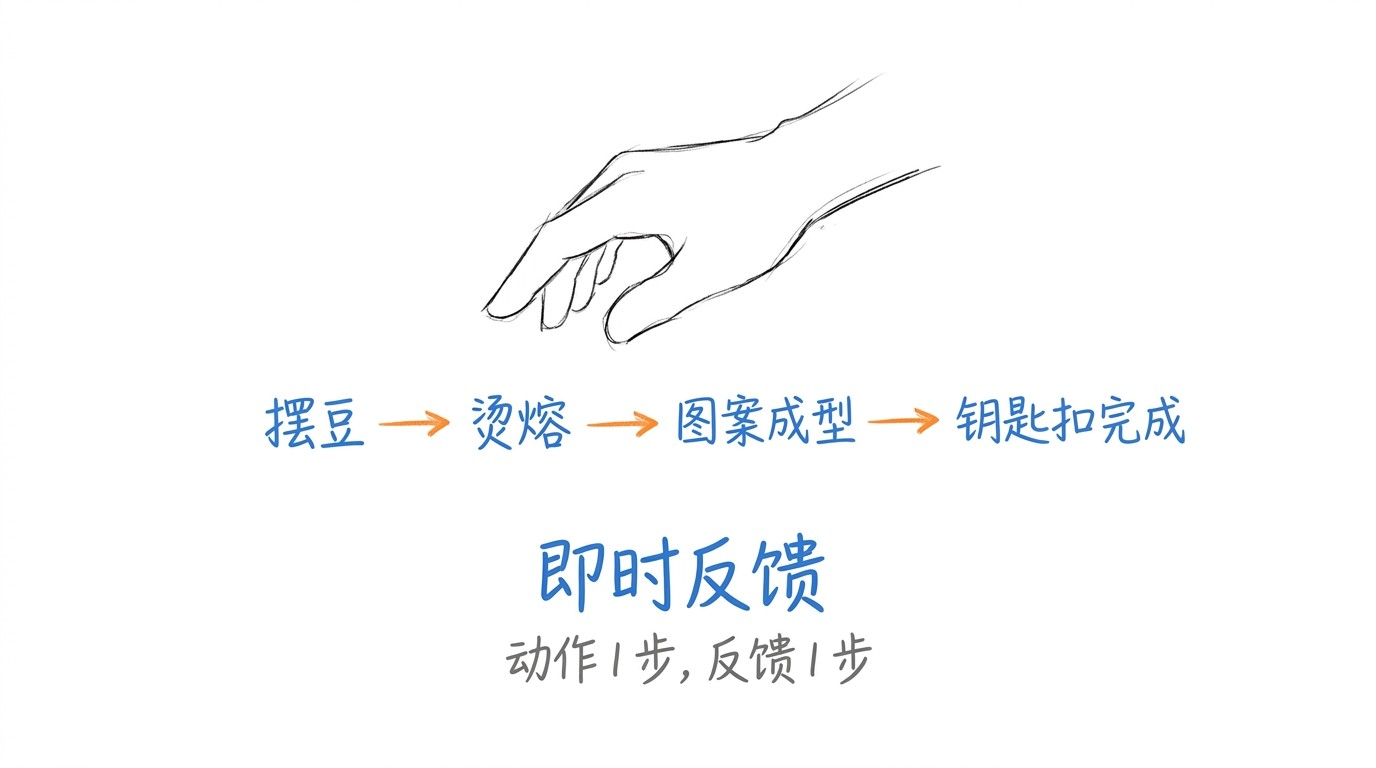
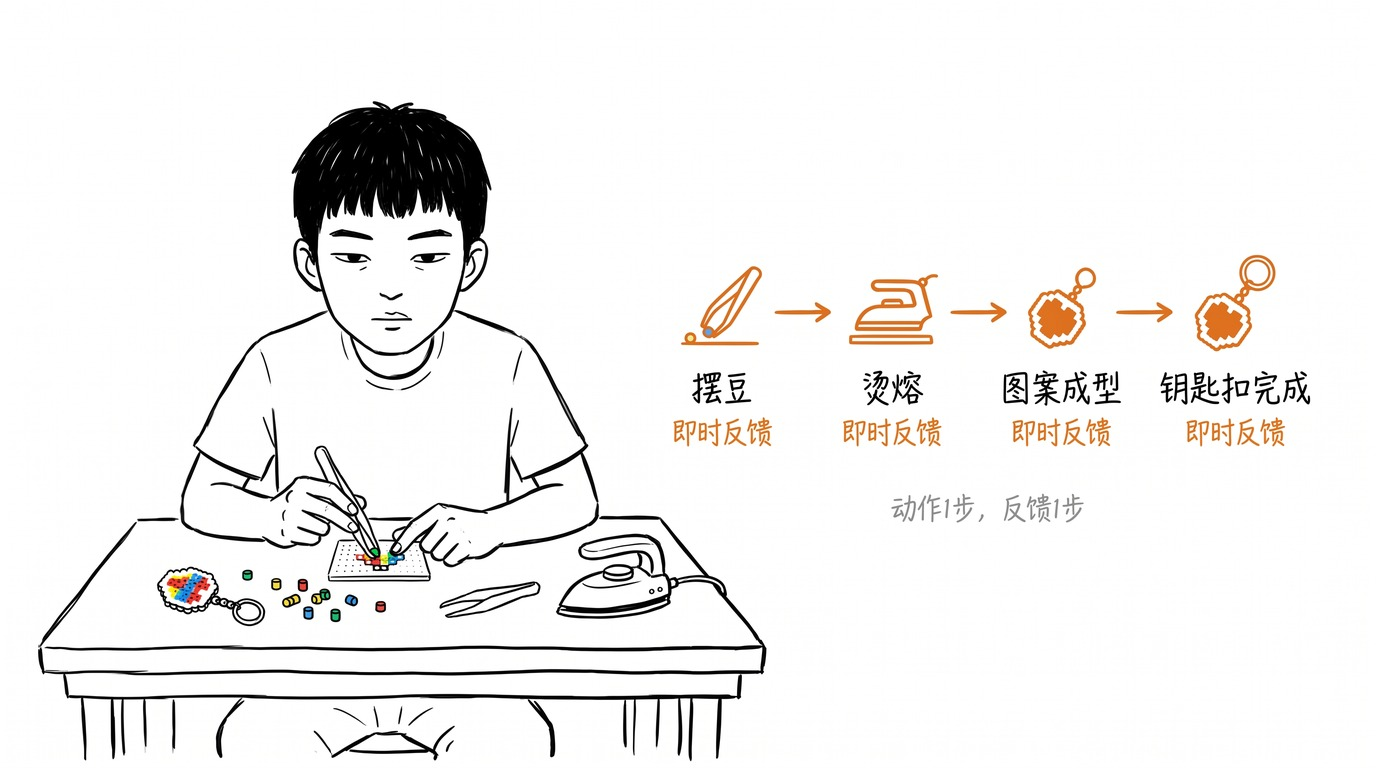
v2.8.18 公众号 027/03 + 028/03 加 IP 锚点 + 沉淀'防 IP 失联' 硬规则
**触发**: 用户(9/10)反馈 024-028 5 篇连发 0 IP, IP 形象失联 13 天, '后续不希望下次发生相同的问题'

**问题诊断**:
- v1.8 决策表 (v2.6 沉淀) 严格执行结果: 状态型 → 去 IP, 但没区分封面/收尾/内容图
- 9 月双联/三联集体观察/工具反思, 全图解型, 0 IP 配合 v1.8
- 个人 IP 公众号 13 天不见 IP = 跟'匿名作者' 没区别, 真实风险

**改图**:
- 027/03 hand-flow 改成: 小凡桌前摆拼豆 (死板冷静, 1 手拿镊子 1 手摆豆) + 散落拼豆+镊子+熨斗+半成品+成品钥匙扣 + 右侧 4 步流程保留
- 028/03 ai-tax-flow 改成: 小凡低头看手机 (屏幕上 iCloud 订阅 ¥28/月 自动续费) + 右侧缩略流程图保留
- banner (00) / punchline (04) 保留大字钩子/收尾, 留给文字
- 5 张总数不变, 027/028 现在 1/5 IP + 4 张图解型

**操作**:
- PIL JPEG 化 1376x768, 139-150KB
- 改 2 篇 content.md front matter (expressions 0/5→1/5 + poses 0/5→1/5) + image 描述
- 微信 API 不支持更新草稿, 删旧 + 新建 (草稿 ID 变):
  - 027 旧 4Qs6oAKtTbuKncYKGGbmXBA8UScAx5O-ALsqvmwCeuULWbfvgjZbUnHp02ykrSe3 → 新 4Qs6oAKtTbuKncYKGGbmXIRPTxPngG9TFwEP4vCfIA0bUdONlyuXlqwrk7TD7C8r
  - 028 旧 4Qs6oAKtTbuKncYKGGbmXPuUyMe8_IcfJwckj3r_hmQzUkbSYnafGMyMEf8qbAXW → 新 4Qs6oAKtTbuKncYKGGbmXJKFrZxQiQoraN45mL-a_oJPCRaHz8mBpOjK5Dc_caSB

**新硬规则** (style-guide §3.6 沉淀, 防 IP 失联):
- **5 张图里至少 1 张含 IP 形象** (动作型, 02/03 内容图位置)
- **失联红线: 连续 3 篇 0 IP = IP 失联, 必须重画加 IP**
- v1.8 决策表依然有效, 但加这条下限: 状态型/集体观察/工具反思, 02/03 插 1 张 IP 锚点
- 自检: front matter expressions 字段必须 ≥1/5 用 → 不达标阻断

**微信 API 工具知识** (新沉淀):
- draft/delete API: cgi-bin/draft/delete?access_token=... body {media_id: ...} errcode=0 成功
- 微信 API 不支持更新草稿, 改图必须删旧 + 新建

**文档更新**:
- brand/style-guide.md §3.6 新增'IP 形象出现频率' 段 (含失联红线)
- doc/SERIES-DRAFT-IDS.md 草稿 ID 全部更新 (旧 ID 标记失效)
- doc/SERIES-STATE.md 027/028 行的 IP 状态从 0/5 改 1/5
[…]

diff --git a/doc/SERIES-STATE.md b/doc/SERIES-STATE.md
@@ -52,8 +52,8 @@
 | 023 | 8 月没开倍速, 是我自己按的 | 生活观察-实验(8/23 热搜 #我怀疑八月开倍速了# 4.2 亿阅读, 8/26 处暑"原速日" 6 件事) | 1/5 用 (03 死板冷静) | 0/5 用 | 月历 / 倍速按钮 / 经典闹钟 / 咖啡+笔记本+手机扣着 / 1.0x 按键 | ✅ 草稿已创建(v2.8.8 待手动群发) |
 | 024 | 杭州这 3 次台风, 我屯了 3 次泡面 | 生活观察-实验(8/28 沙德尔 14 级强台风 + 红色预警 + Ⅰ 级响应, 主城区 7 级, 反共识: 渲染 vs 体感) | 0/5 用 | 0/5 用 | 超市空货架 / 4 预警徽章 / 泡面袋 / 街道+伞+水果摊 / 3 袋泡面对比 | ✅ 草稿已创建(v2.8.10 待手动群发) |
 | 025 | 我每天 3:15 醒来, 看 38 分钟天花板, 又睡了 | 生活观察-实验(借 8/30 知乎热榜"成年人的崩溃往往在半夜" 1.2 亿阅读 + 朋友圈第 3 条刷屏, 反向"崩溃不在半夜, 在 3:15"; 8/23-8/31 共 9 天, 0 天例外, 3:15 醒, 38 分钟天花板, 又睡了; 9 天 5.7 小时, 4 件事 0 答案; 落"草稿 > 作品"; v2.8.12.3 彻底换选题, 扔掉 v2.8.12/12.1/12.2 全部"开学焦虑"方向, 不再"列清单+送孩子", 改成"看到一句话 → 扩展") | 0/5 用 (状态型 → 全去 IP) | 0/5 用 | 9 个日格 8/23-8/31 每个 3:15 红圈 / 手机收藏夹 4 件事 (蜘蛛网 5cm + 水渍 5 个月 + 蛾子 1 个月 + 缝 1cm) / 卧室仰视+蜘蛛网 5 厘米 / 卧室仰视+缝 1 厘米 (旁边 1 块水渍) / 笔记本"草稿"+闹钟 3:15 | ✅ 草稿已创建(v2.8.12.3 换选题, 草稿 ID `4Qs6oAKtTbuKncYKGGbmXCFKQBuWlPscbc3xNJrgHPX_l_5LHD796udOLHlpNWKv`, 待手动群发) |
-| **027** | **手搓的人, 都不是为了做出来** | 集体观察-反思 行为转向(v2.8.17 9 月双联下篇, 跟 026 自渡配对。蹭 9/10 抖音 #手搓万物 87.6 亿次 + 小红书百万笔记 00 后占近 4 成. 反共识切口"手搓不是为了做出来, 是为了在做的过程里找回自己". 4 个门类(拼豆/钩织/贴纸/粘土)+ 刷手机 3 小时 vs 手搓 1 小时 对比 + 手+4 步流程(摆豆→烫熔→完整图案) 即时反馈. 落"**过程 > 结论**" + 收尾"手搓=草稿的另一种说法". 5 张图里 **0 张 IP** (集体观察行为转向 状态型, 全图解型)) | 0/5 用 (集体观察 → 全去 IP) | 0/5 用 | 9 月方格日历 30 天 + 大字"手搓"/4 张手搓门类卡片 (拼豆橙豆 / 钩织蓝钩针 / 贴纸橙小屋 / 粘土蓝小杯, 区别 026 4 征兆卡片)/左灰进度条"刷手机 3 小时" 红 brush 划掉 + 右橙进度条"手搓 1 小时" (区别 026 进度条"35 岁前财务自由" vs "我自己定义")/1 个手 + 4 步流程 (摆豆→烫熔→完整图案, 每步橙字即时反馈)/大字"手搓=草稿" | ✅ 草稿已创建(v2.8.17 9/10 同步, 草稿 ID `4Qs6oAKtTbuKncYKGGbmXBA8UScAx5O-ALsqvmwCeuULWbfvgjZbUnHp02ykrSe3`, 待手动群发) |
-| **028** | **iPhone 18 涨了 1000, 你买的不是手机, 是 AI 税** | 工具反思-扩展 AI 税(v2.8.17 9 月三联工具篇, 蹭 9/10 凌晨 1 点苹果秋季发布会 + 9/9 华为 Mate XT 2 + 小米 18 Fold 集体涨价热搜. 跟 020/021/022 AI 战略接续但角度不同: 020 大厂资本/021 OpenAI 降价/022 匿名模型/**028 个人钱包**. 切口"AI 税" 反共识"涨价不为硬件为 AI 算力". 4 征兆结构改用**价格表+拆解图+流程图** 视觉区别 026/027 (避免 3 篇都用 4 张卡片). 落"**草稿 > 作品**" + 收尾"AI 税=草稿的另一种说法". 5 张图里 **0 张 IP** (工具反思状态型, 全图解型)) | 0/5 用 (工具反思 → 全去 IP) | 0/5 用 | 大字"AI 税" 蓝字"= 你为草稿付的钱"/iPhone 18 vs 17 价格对比表 (4 行 256GB 涨 1000 / 512GB 涨 2000 / 1TB 涨 3500 / 2TB 涨 5000, 红 brush 圈"涨 1000-5000")/iPhone 18 拆解图 (左"硬件" 蓝字 0 涨 + 右"AI 算力" A20 Pro NPU 涨 40%, 中间大箭头, **02 重画去苹果 logo 触发 v2.6.1 配图硬规则**)/AI 税流程图 (你→苹果→AI 公司→GPU 算力→数据中心)/大字"AI 税=草稿" 橙字"你为草稿付, 不是为作品" | ✅ 草稿已创建(v2.8.17 9/10 同步, 草稿 ID `4Qs6oAKtTbuKncYKGGbmXPuUyMe8_IcfJwckj3r_hmQzUkbSYnafGMyMEf8qbAXW`, 待手动群发) |
[1 lines of base64/hex data omitted]
+| **028** | **iPhone 18 涨了 1000, 你买的不是手机, 是 AI 税** | 工具反思-扩展 AI 税(v2.8.17 9 月三联工具篇, 蹭 9/10 凌晨 1 点苹果秋季发布会 + 9/9 华为 Mate XT 2 + 小米 18 Fold 集体涨价热搜. 跟 020/021/022 AI 战略接续但角度不同: 020 大厂资本/021 OpenAI 降价/022 匿名模型/**028 个人钱包**. 切口"AI 税" 反共识"涨价不为硬件为 AI 算力". 4 征兆结构改用**价格表+拆解图+流程图** 视觉区别 026/027 (避免 3 篇都用 4 张卡片). 落"**草稿 > 作品**" + 收尾"AI 税=草稿的另一种说法". **v2.8.18 03 重画加 IP** (小凡低头看手机 屏幕上 iCloud 订阅扣款通知, 强化"你为 AI 付钱" 的个人代入, 符合 style-guide §3.6 新硬规则 "5 张至少 1 张 IP 锚点") | **1/5 用 (03 死板冷静)** | 0/5 用 | 大字"AI 税" 蓝字"= 你为草稿付的钱"/iPhone 18 vs 17 价格对比表 (4 行 256GB 涨 1000 / 512GB 涨 2000 / 1TB 涨 3500 / 2TB 涨 5000, 红 brush 圈"涨 1000-5000")/iPhone 18 拆解图 (左"硬件" 蓝字 0 涨 + 右"AI 算力" A20 Pro NPU 涨 40%, 中间大箭头, **02 重画去苹果 logo 触发 v2.6.1 配图硬规则**)/**小凡低头看手机 (屏幕 iCloud 订阅 ¥28/月 自动续费) + 右侧缩略流程图 (v2.8.18 加 IP)**/大字"AI 税=草稿" 橙字"你为草稿付, 不是为作品" | ✅ 草稿已创建(v2.8.18 9/10 同步, 草稿 ID `4Qs6oAKtTbuKncYKGGbmXJKFrZxQiQoraN45mL-a_oJPCRaHz8mBpOjK5Dc_caSB`, 待手动群发; 旧 ID 9/10 v2.8.17 失效) |
 
 > **000 是开篇**,负责品牌定位 + 联动 001,所以表情/装扮/姿态都不计入轮换池。
 > **003 跟 001/002 形成"工具三部曲"**(节奏 / 专注 / 控制权),三个独立切口。
@@ -144,8 +144,8 @@
 - 超市空货架(泡面/水/面包)/4 预警徽章(14 级+红色预警+Ⅰ 级+五停)/泡面袋/街道+伞+水果摊/3 袋泡面对比(系列 024)
 - 9 个日格 8/23-8/31 (每个 3:15 红圈) + 蓝字"5.7 小时"/手机收藏夹 4 件事 (蜘蛛网 5cm + 水渍 5 个月 + 蛾子 1 个月 + 缝 1cm 全部红 X) + 蓝字"我醒了 9 次" + 灰字"0 答案"/卧室仰视 + 闹钟 3:15 (红圈) + 蜘蛛网 5 厘米 (左下角)/卧室仰视 + 闹钟 3:15 (红圈) + 缝 1 厘米 (旁边水渍 5 个月)/笔记本"草稿" + 闹钟 3:15 + 蓝字"草稿 > 作品" (系列 025, v2.8.12.3 换选题"3:15 + 天花板 + 草稿")
 - 9 月方格日历 30 天 + 大字"自渡" + 4 张征兆卡片 (跳槽/维权/朋友/政策) + 2 个进度条 (35 岁前财务自由 红 brush 划掉 vs 我自己定义) + 4 box 情绪代谢流程图 (运动/写作/深度阅读/结构化反思) + 大字"自渡=承认" (系列 026, v2.8.17 集体观察-反思 状态型 0 IP)
-- 9 月方格日历 30 天 + 大字"手搓" + 4 张手搓门类卡片 (拼豆橙豆/钩织蓝钩针/贴纸橙小屋/粘土蓝小杯, **区别 026 4 征兆卡片**) + 左灰进度条"刷手机 3 小时" 红 brush 划掉 + 右橙进度条"手搓 1 小时" (**区别 026 进度条**) + 1 个手 + 4 步流程 (摆豆→烫熔→完整图案) 即时反馈 + 大字"手搓=草稿" (系列 027, v2.8.17 集体观察-反思 行为转向 0 IP)
-- 大字"AI 税" 蓝字"= 你为草稿付的钱" + iPhone 18 vs 17 价格对比表 (4 行 256GB 涨 1000 / 512GB 涨 2000 / 1TB 涨 3500 / 2TB 涨 5000, **区别 026/027 卡片结构**) + iPhone 18 拆解图 (左"硬件" 0 涨 + 右"AI 算力" A20 Pro NPU 涨 40%, **02 重画去苹果 logo**) + AI 税流程图 (你→苹果→AI 公司→GPU 算力→数据中心) + 大字"AI 税=草稿" (系列 028, v2.8.17 工具反思-扩展 AI 税 0 IP)
+- 9 月方格日历 30 天 + 大字"手搓" + 4 张手搓门类卡片 (拼豆橙豆/钩织蓝钩针/贴纸橙小屋/粘土蓝小杯, **区别 026 4 征兆卡片**) + 左灰进度条"刷手机 3 小时" 红 brush 划掉 + 右橙进度条"手搓 1 小时" (**区别 026 进度条**) + **小凡桌前摆拼豆 (1 手拿镊子 1 手摆豆) + 散落拼豆+镊子+熨斗+半成品+成品钥匙扣 + 右侧 4 步流程 (v2.8.18 加 IP, 替代原"1 个手")** + 大字"手搓=草稿" (系列 027, v2.8.17 集体观察-反思 行为转向, v2.8.18 加 IP)
+- 大字"AI 税" 蓝字"= 你为草稿付的钱" + iPhone 18 vs 17 价格对比表 (4 行 256GB 涨 1000 / 512GB 涨 2000 / 1TB 涨 3500 / 2TB 涨 5000, **区别 026/027 卡片结构**) + iPhone 18 拆解图 (左"硬件" 0 涨 + 右"AI 算力" A20 Pro NPU 涨 40%, **02 重画去苹果 logo**) + **小凡低头看手机 (屏幕 iCloud 订阅 ¥28/月 自动续费) + 右侧缩略流程图 (v2.8.18 加 IP, 替代原"流程图主图")** + 大字"AI 税=草稿" (系列 028, v2.8.17 工具反思-扩展 AI 税, v2.8.18 加 IP)
 
 **未用**(防反复刻):
 
@@ -187,8 +187,8 @@
 - **生活观察-实验(024 杭州这 3 次台风, 我屯了 3 次泡面)** — v2.8.10, 8/28 沙德尔 14 级强台风 + 红色预警 + Ⅰ 级响应 + 临安五停, 但主城区 7 级 + 蓝色预警。 反共识切口: 渲染的"严重" vs 体感的"7 级"。 跟 019/023 同角度池, 5 张图里 1 张 IP (02 买泡面)
 - **生活观察-实验(025 我每天 3:15 醒来, 看 38 分钟天花板, 又睡了)** — v2.8.12.3 彻底换选题, 扔掉 v2.8.12/12.1/12.2 全部"开学焦虑"方向 (列清单+送孩子+家长焦虑, 用户看腻了); 借 8/30 知乎热榜"成年人的崩溃往往在半夜" 1.2 亿阅读 + 朋友圈第 3 条刷屏, 反向"崩溃不在半夜, 在 3:15"; 8/23-8/31 共 9 天, 0 天例外, 3:15 醒, 38 分钟天花板, 又睡了; 9 天 5.7 小时, 4 件事 (蜘蛛网 5cm + 水渍 5 个月 + 蛾子 1 个月 + 缝 1cm) 0 答案; 落"**草稿 > 作品**": 3 点醒来不是失眠, 是"还在写"的过程; 5 张图里 **0 张 IP** (状态型配图, 卧室仰视 + 闹钟 3:15)
 - **集体观察-反思(026 自渡这个词, 不是鸡汤, 是承认)** — v2.8.17 蹭 9 月热搜"自渡" 9 月年轻人搜索量最高的词. 跟 023/024/025 生活观察-实验 区别开, 走"集体观察-反思" 角度, 不是个人小事, 是 9 月集体转向 + 反共识"自渡≠自我提升". 4 个征兆: 跳槽换环境难/维权成本高/朋友自保不易/政策节奏差. 落"**过程 > 结论**": 承认比提升难, 自渡=减东西不是加东西, 进度条拆掉 (35 岁前财务自由 vs 我自己定义), 情绪代谢 (4 box 流程图: 运动/写作/深度阅读/结构化反思). 5 张图里 **0 张 IP** (集体观察状态型, 全图解型)
-- **集体观察-反思 行为转向(027 手搓的人, 都不是为了做出来)** — v2.8.17 第 2 段, 9 月双联下篇 (跟 026 自渡配对: 026 心理转向, 027 行为转向, 都收尾在"草稿"). 蹭 9/10 抖音 #手搓万物 87.6 亿次 + 小红书百万笔记 00 后占近 4 成. 反共识切口"手搓不是为了做出来, 是为了在做的过程里找回自己". 4 个门类(拼豆/钩织/贴纸/粘土)+ 刷手机 3 小时 vs 手搓 1 小时 对比 (区别 026 进度条) + 手+4 步流程 即时反馈. 落"**过程 > 结论**". 5 张图里 **0 张 IP** (集体观察行为转向, 全图解型)
-- **工具反思-扩展 AI 税(028 iPhone 18 涨了 1000, 你买的不是手机, 是 AI 税)** — v2.8.17 第 2 段, 9 月三联工具篇 (蹭 9/10 凌晨 1 点苹果秋季发布会 + 9/9 华为 Mate XT 2 + 小米 18 Fold 集体涨价热搜). 跟 020/021/022 AI 战略接续但角度不同: 020 大厂资本/021 OpenAI 降价/022 匿名模型/**028 个人钱包**. 切口"AI 税" 反共识"涨价不为硬件为 AI 算力". 4 征兆结构改用**价格表+拆解图+流程图** 视觉区别 026/027 (避免 3 篇都用 4 张卡片). 落"**草稿 > 作品**". 5 张图里 **0 张 IP** (工具反思状态型, 全图解型, **02 iphone-explode 触发 v2.6.1 配图硬规则, 重画去苹果 logo**)
+- **集体观察-反思 行为转向(027 手搓的人, 都不是为了做出来)** — v2.8.17 第 2 段, 9 月双联下篇 (跟 026 自渡配对: 026 心理转向, 027 行为转向, 都收尾在"草稿"). 蹭 9/10 抖音 #手搓万物 87.6 亿次 + 小红书百万笔记 00 后占近 4 成. 反共识切口"手搓不是为了做出来, 是为了在做的过程里找回自己". 4 个门类(拼豆/钩织/贴纸/粘土)+ 刷手机 3 小时 vs 手搓 1 小时 对比 (区别 026 进度条) + 手+4 步流程 即时反馈. 落"**过程 > 结论**". **v2.8.18 03 重画加 IP** (小凡桌前摆拼豆 死板冷静, 1 手拿镊子 1 手摆豆, 桌上有散落拼豆+镊子+熨斗+半成品+成品钥匙扣, 右侧 4 步流程保留), 5 张图里 **1 张 IP** + 4 张图解型 (符合 style-guide §3.6 新硬规则)
+- **工具反思-扩展 AI 税(028 iPhone 18 涨了 1000, 你买的不是手机, 是 AI 税)** — v2.8.17 第 2 段, 9 月三联工具篇 (蹭 9/10 凌晨 1 点苹果秋季发布会 + 9/9 华为 Mate XT 2 + 小米 18 Fold 集体涨价热搜). 跟 020/021/022 AI 战略接续但角度不同: 020 大厂资本/021 OpenAI 降价/022 匿名模型/**028 个人钱包**. 切口"AI 税" 反共识"涨价不为硬件为 AI 算力". 4 征兆结构改用**价格表+拆解图+流程图** 视觉区别 026/027 (避免 3 篇都用 4 张卡片). 落"**草稿 > 作品**". **v2.8.18 03 重画加 IP** (小凡低头看手机 死板冷静, 屏幕 iCloud 订阅 ¥28/月 自动续费, 右侧缩略流程图保留), 5 张图里 **1 张 IP** + 4 张图解型; 02 iphone-explode 触发 v2.6.1 配图硬规则, 重画去苹果 logo
 
 ### 待开发的备选角度(避免重复, 备未来)
 

diff --git a/PROJECT-HISTORY.md b/PROJECT-HISTORY.md
@@ -1175,3 +1175,68 @@ header 'Accept-Language: zh-CN,zh;q=0.9,en;q=0.8'
 - 020/021/022 公众号 8/25 已发版阅读/数据待统计
 - 公众号抓数据 (v2.8.17 待处理, 微信扫码登录同样风险)
 
+---
+
+## v2.8.18 阶段 (2026-09-10): 公众号 027/028 加 IP 锚点 + 沉淀"防 IP 失联" 硬规则
+
+**触发**: 用户(9/10)反馈"最近公众号配图的策略调整了吗, 还是最近的文章都没必要出现我们的 IP 形象相关的配图呢, 如果有必要可以重新处理文章和配图" + "后续不希望下次发生相同的问题"
+
+**问题诊断**:
+- 024-028 5 篇连发 0 IP, IP 形象失联 13 天 (8/28-9/10)
+- v1.8 决策表 (v2.6 沉淀) 严格执行结果: 状态型画面 → 去 IP, 但没区分"封面/收尾" 和"内容图" 位置
+- 9 月双联/三联集体观察/工具反思角度, 全图解型, 0 IP 配合 v1.8 决策表
+- 但个人 IP 公众号 13 天不见 IP = 跟"匿名作者" 没区别, 这是真实风险
+
+**决策**: 按方案 C 处理 — 027/028 各加 1 张 IP 配图 (动作型, 5 张总数不变, 不破坏 9 月双联/三联设计):
+- **027 03 hand-flow 改成**: 小凡桌前摆拼豆 (死板冷静, 1 手拿镊子 1 手摆豆) + 桌上有散落拼豆+镊子+熨斗+半成品+成品钥匙扣 + 右侧 4 步流程保留
+- **028 03 ai-tax-flow 改成**: 小凡低头看手机 (死板冷静, 屏幕 iCloud 订阅 ¥28/月 自动续费) + 右侧缩略流程图保留
+- banner (00) / punchline (04) 保留大字钩子/收尾, 留给文字 — 不在封面/收尾改 IP
+
+**操作步骤**:
+1. 重画 2 张 IP 配图 (用 `xiaofan-ink/assets/ip-reference/standard.png` 作 input_file_paths, 跟 standard 描述段对齐)
+2. PIL JPEG 化 1376x768, 139-150KB
+3. 改 2 篇 content.md (image 描述 + front matter `expressions: 0/5 → 1/5 用` + `poses: 0/5 → 1/5 用`)
+4. 微信 API 不支持更新草稿, **删旧草稿 + 新建** (草稿 ID 变):
[1 lines of base64/hex data omitted]
+   - 028 旧: `4Qs6oAKtTbuKncYKGGbmXPuUyMe8_IcfJwckj3r_hmQzUkbSYnafGMyMEf8qbAXW` → 新: `4Qs6oAKtTbuKncYKGGbmXJKFrZxQiQoraN45mL-a_oJPCRaHz8mBpOjK5Dc_caSB`
+5. 沉淀硬规则到 style-guide §3.6
+6. 更新所有跟踪表
+
+**新草稿 ID** (v2.8.18):
[1 lines of base64/hex data omitted]
+- 028: `4Qs6oAKtTbuKncYKGGbmXJKFrZxQiQoraN45mL-a_oJPCRaHz8mBpOjK5Dc_caSB` (2026-09-10 10:36)
+
+**新观察沉淀 (v2.8.18 核心: 防 IP 失联硬规则)**:
+1. **5 张图里至少 1 张含 IP 形象** (v2.8.18 新增, 硬规则): 动作型, 跟主题相关, 02/03 内容图位置; banner (00) / punchline (04) 留给文字
+2. **失联红线 (v2.8.18 新增)**: 连续 3 篇 0 IP = IP 失联, 必须重画加 IP
+3. **v1.8 决策表扩展 (v2.8.18)**: 状态型/集体观察/工具反思, 02/03 位置插 1 张 IP 锚点; 不在封面/收尾改 IP
+4. **微信 API 不支持更新草稿 (v2.8.18 验证)**: 改图必须删旧 + 新建, 草稿 ID 变, SERIES-DRAFT-IDS 同步更新
+5. **删旧草稿 API (v2.8.18 新增工具知识)**: `cgi-bin/draft/delete?access_token=...`, body `{"media_id": "..."}`, errcode=0 表示成功
+
+**沉淀到 style-guide §3.6 新增段**:
+- "IP 形象出现频率 (v2.8.18 新增, 硬规则, **防 IP 失联**)"
+- 5 张图里至少 1 张含 IP 形象 (动作型, 跟主题相关)
+- 位置: 02 或 03 位置 (内容图), 不在 00 banner / 04 punchline
+- 例外: 5 张全 IP 也行, 但 ≥1 张是底线
+- 失联红线: 连续 3 篇 0 IP = IP 失联, 必须重画加 IP
+- 起源: v2.8.17 024-028 5 篇连发 0 IP, IP 失联 13 天, 用户(9/10)反馈修正
+- 自检: front matter `expressions` 字段必须 ≥1/5 用 → 不达标阻断
+
+**文档更新**:
+- `doc/essays/images/027-handmade/03-hand-flow.png` 重画 (加 IP 形象, 小凡桌前摆拼豆)
+- `doc/essays/images/028-ai-tax/03-ai-tax-flow.png` 重画 (加 IP 形象, 小凡看订阅扣款)
+- `doc/essays/027-handmade.md` front matter `expressions: 0/5 → 1/5 用` + `poses: 0/5 → 1/5 用` + image 描述更新
+- `doc/essays/028-ai-tax.md` front matter `expressions: 0/5 → 1/5 用` + `poses: 0/5 → 1/5 用` + image 描述更新
+- `doc/SERIES-DRAFT-IDS.md` 草稿 ID 全部更新 (旧 ID 标记失效)
+- `doc/SERIES-STATE.md` 027/028 行的 IP 状态从 0/5 改 1/5
+- `brand/style-guide.md` §3.6 新增"IP 形象出现频率" 段 + 自检项
+- `PROJECT-HISTORY.md` 本节 (v2.8.18)
+
+**待办** (不催更):
+- 027/028 群发 (9/10 v2.8.18 同步, 用户决定 9 月双联/三联群发时机)
+- 025 群发 (v2.8.12.3 已脱离开学时效, 任意时间可发)
+- 024/023 群发 (8/26-8/28 同步, 用户决定)
+- 026 群发 (9/9 同步, 用户决定)
+- 020/021/022 公众号 8/25 已发版阅读/数据待统计
+- 公众号抓数据 (v2.8.17 待处理, 微信扫码登录同样风险)
+

diff --git a/doc/SERIES-DRAFT-IDS.md b/doc/SERIES-DRAFT-IDS.md
@@ -13,15 +13,16 @@
 
 | 编号 | 标题 | 草稿 ID | 同步时间 | 配图 |
 |---|---|---|---|---|
-| **027** | **手搓的人, 都不是为了做出来** | `4Qs6oAKtTbuKncYKGGbmXBA8UScAx5O-ALsqvmwCeuULWbfvgjZbUnHp02ykrSe3` | 2026-09-10 09:36 | 5 张 (v1.8 决策表: **0 IP** + 5 去 IP, 集体观察-反思 行为转向) |
-| **028** | **iPhone 18 涨了 1000, 你买的不是手机, 是 AI 税** | `4Qs6oAKtTbuKncYKGGbmXPuUyMe8_IcfJwckj3r_hmQzUkbSYnafGMyMEf8qbAXW` | 2026-09-10 09:47 | 5 张 (v1.8 决策表: **0 IP** + 5 去 IP, 工具反思-扩展 AI 税, 02 重画去苹果 logo) |
[1 lines of base64/hex data omitted]
+| **028** | **iPhone 18 涨了 1000, 你买的不是手机, 是 AI 税** | `4Qs6oAKtTbuKncYKGGbmXJKFrZxQiQoraN45mL-a_oJPCRaHz8mBpOjK5Dc_caSB` | 2026-09-10 10:36 (v2.8.18 03 重画加 IP, 旧 ID `4Qs6oAKtTbuKncYKGGbmXPuUyMe8_IcfJwckj3r_hmQzUkbSYnafGMyMEf8qbAXW` 失效) | 5 张 (v1.8 决策表: **1 IP** (03 小凡看订阅扣款) + 4 去 IP, 工具反思-扩展 AI 税, 02 重画去苹果 logo) |
 
-> 027/028 是 v2.8.17 第 2 段, 9 月双联/三联:
+> 027/028 是 v2.8.17 第 2 段 (后被 v2.8.18 修正, 03 加 IP), 9 月双联/三联:
 > - **026 自渡 (9/9 同步)** — 9 月热搜"自渡" 9 月年轻人搜索量最高的词; 4 个征兆 (跳槽/维权/朋友/政策); 落"过程>结论" + 收尾"自渡=草稿的另一种说法"
-> - **027 手搓 (9/10 同步)** — 9 月年轻人最上头新爱好 #手搓万物 87.6 亿次; 4 门类 (拼豆/钩织/贴纸/粘土); 落"过程>结论" + 收尾"手搓=草稿的另一种说法"
-> - **028 AI 税 (9/10 同步)** — iPhone 18 涨 1000 不是为硬件是为 AI 算力; 落"草稿>作品" + 收尾"AI 税=草稿的另一种说法"
+> - **027 手搓 (9/10 同步, v2.8.18 03 加 IP)** — 9 月年轻人最上头新爱好 #手搓万物 87.6 亿次; 4 门类 (拼豆/钩织/贴纸/粘土); 落"过程>结论" + 收尾"手搓=草稿的另一种说法"; 03 hand-flow 改成"小凡桌前摆拼豆 + 4 步流程" (动作型, 防止 IP 失联)
+> - **028 AI 税 (9/10 同步, v2.8.18 03 加 IP)** — iPhone 18 涨 1000 不是为硬件是为 AI 算力; 落"草稿>作品" + 收尾"AI 税=草稿的另一种说法"; 03 ai-tax-flow 改成"小凡低头看手机 (订阅扣款通知) + 流程图缩略" (动作型, 防止 IP 失联)
 > - **3 篇都收尾在"草稿"**: 强化调性, 9 月观察 3 联 (心理+行为+工具)
 > - 028 02 iphone-explode 图含苹果 logo 触发 v2.6.1 配图硬规则, 重画去 logo; **新观察**: 渲染器画"iPhone outline" 会自动加苹果 logo, prompt 必加 "NO apple logo, NO brand name"
+> - **v2.8.18 修正**: 用户(9/10)发现 024-028 5 篇连发 0 IP, IP 形象失联 13 天; 按 style-guide §3.6 新硬规则 "5 张至少 1 张 IP 锚点" 加 IP; 删旧草稿 + 新建, 草稿 ID 变
 
 ---
 

diff --git a/AGENTS.md b/AGENTS.md
@@ -152,13 +152,14 @@
 
 ---
 
-## 当前状态 (v2.8.17 第 2 段, 9/10)
+## 当前状态 (v2.8.18, 9/10)
 
-- **公众号**: 29 篇 (000-028), 草稿箱 2 篇 (027 手搓 + 028 AI 税), 已发 12 篇
+- **公众号**: 29 篇 (000-028), 草稿箱 2 篇 (027 手搓 v2.8.18 + 028 AI 税 v2.8.18), 已发 12 篇
   - 8/25 写完 AI 战略三联 (020 大厂门票 + 021 OpenAI 再降价 + 022 匿名模型) 已群发
   - 9/9 蹭 9 月热搜"自渡" 写 026, 9/10 蹭抖音#手搓万物# 写 027, 9/10 蹭苹果发布会 写 028
   - 015 (1007 阅读, AI 跑赢) + 019 (717 阅读, 生活观察能跑) + 017 (69 阅读, 价格/经济跑不动)
   - **9 月双联/三联** (026 自渡 + 027 手搓 + 028 AI 税) 都收尾"= 草稿的另一种说法", 角度不重复 (心理+行为+工具)
+  - **v2.8.18 修正**: 027/03 + 028/03 加 IP 锚点 (小凡摆拼豆 + 小凡看订阅扣款), 防 IP 失联; 删旧草稿 + 新建, 草稿 ID 变
 - **抖音**: 20 篇 (001-020), 12 篇已发布 (8/27-9/4), 005/006 9/7 决定不再发, 019/020 待发布
   - 9/7 数据复盘: 跑赢 Top 3 是 016 状态型 747 / 017 共鸣金句 294 / 013 自嘲 250
   - 数字链**挑题材**才能跑赢: 009 截图 47/0 271 / 007 外卖 12/0 159
@@ -168,6 +169,7 @@
 - **公众号蹭热点边界 (v2.8.17 沉淀)**: 蹭"集体意识转向" 关键词 (自渡/手搓), 不蹭具体事件 (郑钦文/倪妮/AI 战略续作/价格财经/娱乐八卦 都不适合)
 - **公众号 digest 字数限制 (v2.8.17 沉淀)**: 54 字符硬限制, 超出会被静默截断, 写时直接 punchline 优先, 写完用 python 验证字符数 ≤ 54
 - **v2.6.1 配图硬规则触发 (v2.8.17 验证)**: 028 02 iphone-explode 图含苹果 logo, 重画去 logo; **新观察**: 渲染器画"iPhone outline" 会自动加苹果 logo, prompt 必加 "NO apple logo, NO brand name, generic smartphone outline only"
+- **公众号 IP 形象出现频率硬规则 (v2.8.18 新增, 防 IP 失联)**: **5 张图里至少 1 张含 IP 形象** (动作型, 02/03 内容图位置); banner/punchline 留给文字; **失联红线: 连续 3 篇 0 IP = IP 失联, 必须重画加 IP**; 起源: 024-028 5 篇连发 0 IP, IP 失联 13 天, 用户(9/10)反馈修正; 自检: front matter `expressions` 字段必须 ≥1/5 用 → 不达标阻断
 - **公众号角度池扩展 (v2.8.17)**: 之前「生活观察-实验」 (023/024/025), 现在多了「集体观察-反思」 (026 自渡 + 027 手搓) + 「工具反思-扩展」 (028 AI 税); 后续创作按这 3 个角度池轮换
 - 待办: 公众号 023/024/025/026/027/028 群发时机 (6 篇草稿箱) + 抖音 019/020 发布时机 + 020/021/022 公众号 8/25 已发版阅读/数据待统计 + 公众号抓数据 (微信扫码登录同样风险, 复用 gstack 优化)
 - 不催更, 想写就写

diff --git a/brand/style-guide.md b/brand/style-guide.md
@@ -96,11 +96,20 @@
 - **不画具体 app 内容** (如打车 app 27元/外卖 app 红点), 屏幕简笔即可
 - 屏幕里显示什么走 markdown alt text + 正文文字提示读者, 不靠画面展示
 
+**IP 形象出现频率** (v2.8.18 新增, 硬规则, **防 IP 失联**):
+- **5 张图里至少 1 张含 IP 形象** (动作型, 跟主题相关)
+- 位置: 02 或 03 位置 (内容图), 不在 00 banner / 04 punchline (大字钩子/收尾留给文字)
+- 例外: 5 张全 IP 也行, 但 ≥1 张是底线
+- 失联红线: **连续 3 篇 0 IP = IP 失联, 必须重画加 IP**
+- 起源: v2.8.17 024-028 5 篇连发 0 IP, IP 失联 13 天, 用户(9/10)反馈修正
+- v1.8 决策表依然有效, 但加这条下限: 状态型/集体观察/工具反思, 02/03 位置插 1 张 IP 锚点
+
 **自检 (同步前必跑)**:
 - img 引用数 (`![]()` 数量) = front matter `images:` 列表数 → 不一致阻断
 - 每张配图 prompt 不含 `very hot` / `sweat` / `towel` / `electric fan` / `air conditioning` 这类"突出温度感" 关键词
 - 6-9 月的 IP 形象图 prompt 含 `short-sleeve t-shirt` 至少一次
 - 12-2 月的 IP 形象图 prompt 含 `winter coat` / `thick jacket` 至少一次
+- **5 张图里至少 1 张含 IP 形象** (front matter `expressions` 字段必须 ≥1/5 用) → 不达标阻断
 
 ## 4. 封面(每篇推送的封面图)
 

diff --git a/doc/essays/027-handmade.md b/doc/essays/027-handmade.md
@@ -11,9 +11,9 @@ images:
   - 02-screen-vs-hands.png
   - 03-hand-flow.png
   - 04-punchline.png
-expressions: 0/5 用
+expressions: 1/5 用 (03 死板冷静)
 outfits: 0/5 用
-poses: 0/5 用
+poses: 1/5 用 (03 坐桌前摆拼豆)
 ---
 
 # 手搓的人, 都不是为了做出来
@@ -76,7 +76,7 @@ poses: 0/5 用
 
 手搓有 1 个 AI 永远给不了的东西: **即时反馈**。
 
-[![1 个手 + 4 步流程 (摆豆 → 烫熔 → 完整图案), 每步有蓝字步骤名 + 橙字即时反馈: "豆子动了" / "图案成型" / "完成钥匙扣"](images/027-handmade/03-hand-flow.png)](images/027-handmade/03-hand-flow.png)
+[![小凡桌前摆拼豆 (死板冷静, 1 手拿镊子, 1 手摆豆) + 桌上有散落拼豆+镊子+熨斗+半成品+成品钥匙扣 + 右侧 4 步流程 (摆豆→烫熔→图案成型→钥匙扣完成), 每步蓝字步骤名 + 橙字"即时反馈" + 灰字"动作1步, 反馈1步"](images/027-handmade/03-hand-flow.png)](images/027-handmade/03-hand-flow.png)
 
 你摆 1 颗豆, 模板上多了 1 个点。 你钩 1 行, 包包就大 1 圈。 你贴 1 张贴纸, 小屋多 1 扇窗。
 
